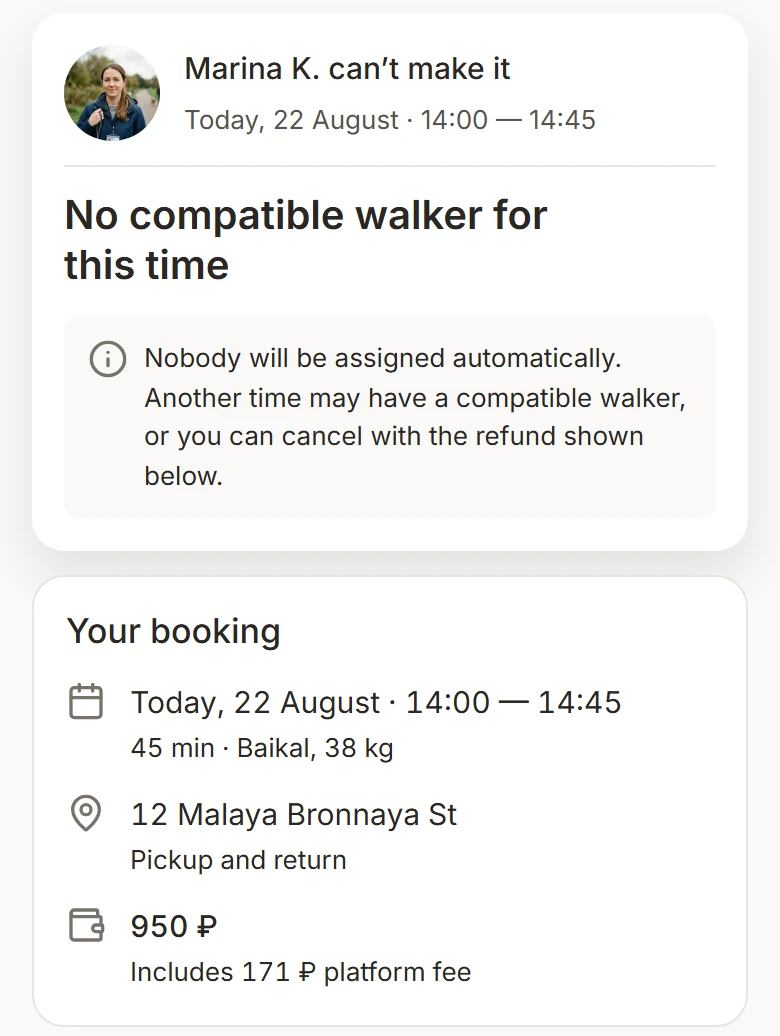
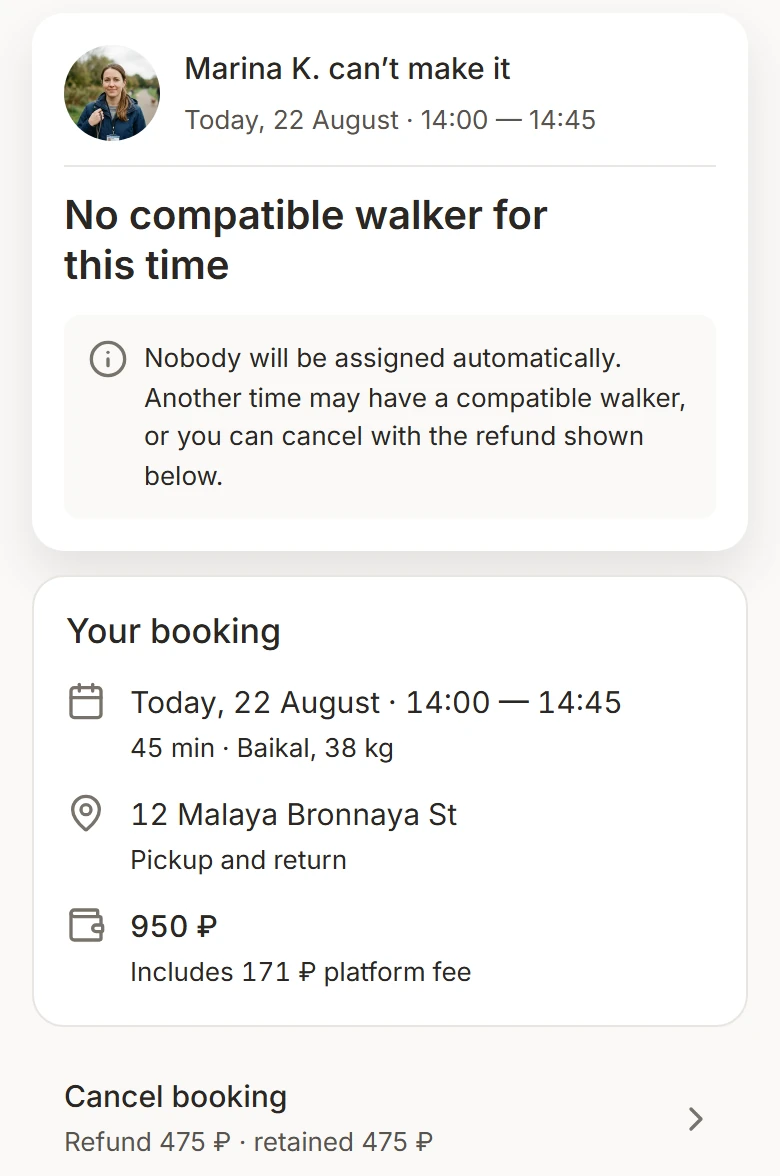
feat(pawly): V2.1 media plates, spacing system and real recovery actions
Every product screen in the Pawly case now sits on a plate with a vertical
field larger than its side field: 64 px from 1024, 48 at 768, 40 on phones
from 360, 32 at 320. Plates run full-bleed on phones, so screens grow
instead of shrinking (0.87 -> 0.92 of native at 390, 0.69 -> 0.76 at 320).

- PawlyShot: neutral surface-plate on the white sheet, product canvas tone
  on sand, no plate inside the cover stage; optional action slice.
- Choosing and Return share one stage per row at 1440 (screens top-aligned).
- 768-1023: one screen per row at native width instead of 0.75 pairs.
- Exceptions show the real bottom-bar actions (Choose another time or
  walker; Retry confirmation, Retake) and the Cancel booking row, cut from
  the original captures by crops.py; 22 other slices byte-identical.

diff --git a/src/copy/ru/cases/pawly-v2.ts b/src/copy/ru/cases/pawly-v2.ts
@@ -53,8 +53,8 @@ export const pawlyCaseRu: PawlyCaseCopy = {
     thesis: 'Если шаг не удался, сервис ничего не додумывает.',
     body: 'В обоих случаях ниже продукт останавливается и прямо об этом говорит, а не закрывает пробел молча.',
     items: [
-      { kicker: 'До передачи', title: 'Марина не сможет прийти', refuses: 'Подходящей замены нет, и автоматически никто не назначается. Владелец выбирает другое время или отменяет заказ с указанным возвратом.', shot: { key: 'branch-reserve', alt: 'Марина К. не сможет прийти. На это время подходящего исполнителя нет; автоматически никто не будет назначен. Ниже — заказ на 14:00–14:45 за 950 ₽.' } },
-      { kicker: 'У двери', title: 'Фото возвращения не отправилось', refuses: 'Снимок остаётся на телефоне, но прогулка, отчёт и выплата не сдвигаются, пока повторная отправка не пройдёт.', shot: { key: 'branch-failed', alt: 'Не отправлено, фото сохранено. Пока не подтверждено: выбранное фото сохранено, заказ и выплата остаются в прежнем состоянии.' } },
+      { kicker: 'До передачи', title: 'Марина не сможет прийти', refuses: 'Подходящей замены нет, и автоматически никто не назначается. Владелец выбирает другое время или отменяет заказ с указанным возвратом.', shot: { key: 'branch-reserve', alt: 'Марина К. не сможет прийти. На это время подходящего исполнителя нет; автоматически никто не будет назначен. Ниже — заказ на 14:00–14:45 за 950 ₽ и отмена заказа: возврат 475 ₽, удержание 475 ₽.' }, action: { key: 'branch-reserve-action', alt: 'Нижняя панель того же экрана: «Выбрать другое время или исполнителя».' } },
+      { kicker: 'У двери', title: 'Фото возвращения не отправилось', refuses: 'Снимок остаётся на телефоне, но прогулка, отчёт и выплата не сдвигаются, пока повторная отправка не пройдёт.', shot: { key: 'branch-failed', alt: 'Не отправлено, фото сохранено. Пока не подтверждено: выбранное фото сохранено, заказ и выплата остаются в прежнем состоянии.' }, action: { key: 'branch-failed-action', alt: 'Нижняя панель того же экрана: «Повторить подтверждение», «Переснять». Локальное демо · фото никуда не загружается.' } },
     ],
     note: 'Две альтернативные ветки одного заказа на 14:00, сняты по отдельности.',
   },

diff --git a/src/copy/cases/pawly-v2.ts b/src/copy/cases/pawly-v2.ts
@@ -19,7 +19,7 @@ export interface PawlyCaseCopy {
     owner: { label: string; shot: PawlyShot }; walker: { label: string; shot: PawlyShot };
     rows: { term: string; owner: string; walker: string }[]; note: string;
   };
-  branches: PawlyChapter & { items: { kicker: string; title: string; refuses: string; shot: PawlyShot }[]; note: string };
+  branches: PawlyChapter & { items: { kicker: string; title: string; refuses: string; shot: PawlyShot; action: PawlyShot }[]; note: string };
   proof: PawlyChapter & {
     vocabulary: { term: string; text: string }[];
     steps: { label: string; caption: string; shot: PawlyShot }[];
@@ -82,8 +82,8 @@ export const pawlyCaseEn: PawlyCaseCopy = {
     thesis: 'When a step fails, nothing is assumed.',
     body: 'In both cases below, the product stops and says so instead of quietly filling the gap.',
     items: [
-      { kicker: 'Before pickup', title: 'Marina can’t make it', refuses: 'There is no compatible reserve, so nobody is assigned automatically. The owner picks another time or cancels with the refund shown.', shot: { key: 'branch-reserve', alt: 'Marina K. can’t make it. No compatible walker for this time; nobody will be assigned automatically. The booking for 14:00–14:45 and 950 ₽ is shown below.' } },
-      { kicker: 'At the door', title: 'The return photo fails to send', refuses: 'The photo is kept on the phone, but the walk, the report and the payout stay where they were until a retry succeeds.', shot: { key: 'branch-failed', alt: 'Sending failed, photo saved. Not confirmed yet: the selected photo is saved; the booking and payout have not advanced.' } },
+      { kicker: 'Before pickup', title: 'Marina can’t make it', refuses: 'There is no compatible reserve, so nobody is assigned automatically. The owner picks another time or cancels with the refund shown.', shot: { key: 'branch-reserve', alt: 'Marina K. can’t make it. No compatible walker for this time; nobody will be assigned automatically. The booking for 14:00–14:45 and 950 ₽, then Cancel booking: refund 475 ₽, retained 475 ₽.' }, action: { key: 'branch-reserve-action', alt: 'Bottom bar of the same screen: Choose another time or walker.' } },
+      { kicker: 'At the door', title: 'The return photo fails to send', refuses: 'The photo is kept on the phone, but the walk, the report and the payout stay where they were until a retry succeeds.', shot: { key: 'branch-failed', alt: 'Sending failed, photo saved. Not confirmed yet: the selected photo is saved; the booking and payout have not advanced.' }, action: { key: 'branch-failed-action', alt: 'Bottom bar of the same screen: Retry confirmation, Retake. Local demo only · no photo is uploaded.' } },
     ],
     note: 'Two alternative branches of the same 14:00 booking, captured separately.',
   },

diff --git a/audit/pawly-portfolio-case-v2/v2/tools/crops.py b/audit/pawly-portfolio-case-v2/v2/tools/crops.py
@@ -27,8 +27,14 @@ SPEC = {
     'match-review':     ('booking-review', [('section', '_panel', 0)], '01 Booking review: before you confirm (card interior)', 'inner'),
     'role-owner':       ('active-service-walking', [('section', '_card', 1), ('section', '_card', 2)], '02 Owner: walk updates and a static route preview'),
     'role-walker':      ('walker-order-walking', [('section', '_card _hero', 0), ('section', 'j0wu', 0)], '02 Walker: deadline and handling notes'),
-    'branch-reserve':   ('replacement-no-reserve', [('section', '_decision', 0), ('section', '_panel', 0)], '03 Before pickup: no compatible reserve, nobody assigned'),
+    # V2.1: 'follow' carries the slice on through the next content block below the sections (here the Cancel booking
+    # row, which the decision text refers to as "the refund shown below"), up to the next empty run of page surface.
+    'branch-reserve':   ('replacement-no-reserve', [('section', '_decision', 0), ('section', '_panel', 0)], '03 Before pickup: no compatible reserve, nobody assigned, cancel with refund', 'follow'),
     'branch-failed':    ('return-failed', [('section', '_proofCard', 0)], '03 At return: sending failed, photo saved'),
+    # V2.1: the recovery actions live in each screen's fixed bottom bar, so they are cut as their own slice from the same
+    # capture: the footer box below its 1 px top hairline, to the end of the document. Shown under the main slice, apart.
+    'branch-reserve-action': ('replacement-no-reserve', [('footer', '_checkout', 0)], '03 Before pickup: the bar action, choose another time or walker', 'footer'),
+    'branch-failed-action':  ('return-failed', [('footer', '_screenFooter', 0)], '03 At return: the bar actions, retry confirmation or retake', 'footer'),
     'proof-selected':   ('return-selected', [('section', '_proofCard', 0)], '04 Selected, not sent'),
     'proof-confirmed':  ('return-confirmed', [('section', '_proofCard', 0)], '04 Return confirmed after retry'),
     'proof-report':     ('order-details', [('section', '_hero', 0), ('section', '_card', 0)], '04 Owner report: Baikal is home, how the walk went'),
@@ -89,8 +95,27 @@ for key, (shot, parts, purpose, *mode) in SPEC.items():
             b = boxes[0]
             rect = ((b['x'] + 8) * 2, (b['y'] + 8) * 2, (b['x'] + b['w'] - 8) * 2, (b['y'] + b['h'] - 8) * 2)
             ref = im.getpixel((rect[0] + 2, rect[1] + 2))
+        elif mode == ['footer']:
+            b = boxes[0]
+            y0 = b['y'] * 2
+            while not clean(im, y0, (255, 255, 255)): y0 += 1  # skip the bar's top hairline
+            assert y0 - b['y'] * 2 <= 4, (key, locale, y0)
+            y1 = min(b['y'] * 2 + b['h'] * 2, im.height)  # a fixed bar ends with the document (boxes round up a pixel)
+            assert clean(im, y1 - 1, (255, 255, 255)), (key, locale, 'footer bottom not clean')
+            ref, rect = (255, 255, 255), (0, y0, 780, y1)
         else:
             y0, y1 = edge(im, top - 1, -1, ref), edge(im, bottom, 1, ref) + 1
+            if mode == ['follow']:
+                y = y1
+                while y < y1 + 128 and clean(im, y, ref): y += 1  # next content within 64 CSS px
+                assert y < y1 + 128, (key, locale, 'nothing to follow')
+                while True:  # content ends at the first run of 16 CSS px of clean page surface
+                    run = 0
+                    while run < 32 and clean(im, y + run, ref): run += 1
+                    if run == 32: break
+                    y += run + 1
+                y1 = y + 24  # 12 CSS px of the page surface under the last line, as the product's own section gap
+                assert all(clean(im, r, ref) for r in range(y, y1)), (key, locale, 'follow tail not clean')
             rect = (0, y0, 780, y1)
         y0, y1 = rect[1], rect[3]
         out = dst / f'{key}-{locale}.webp'
